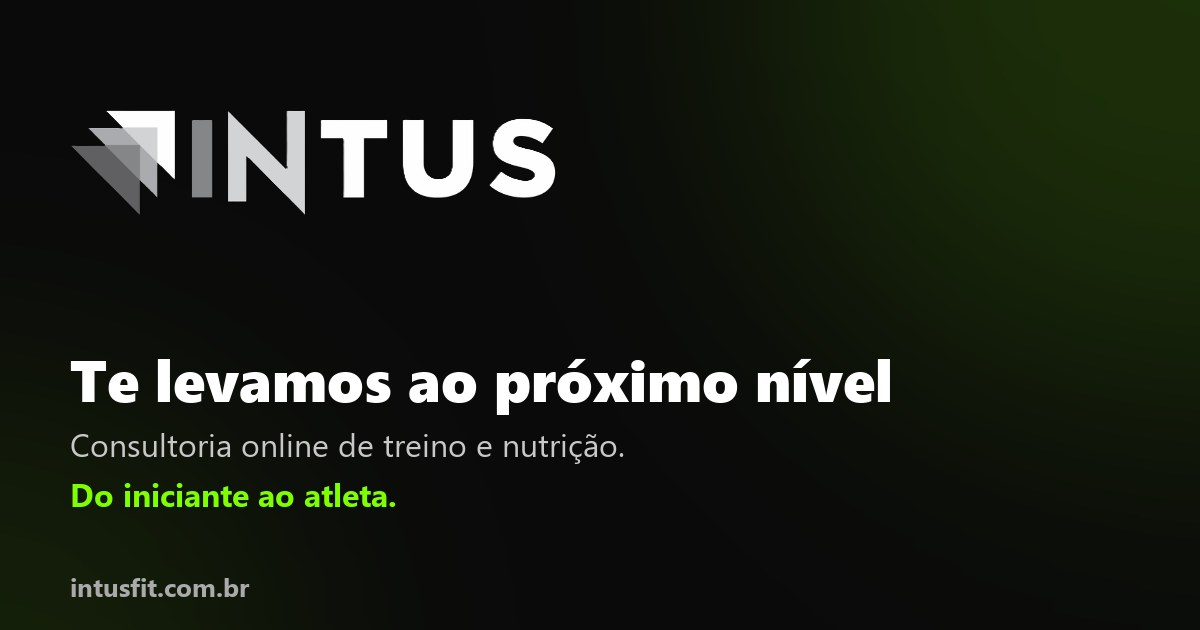
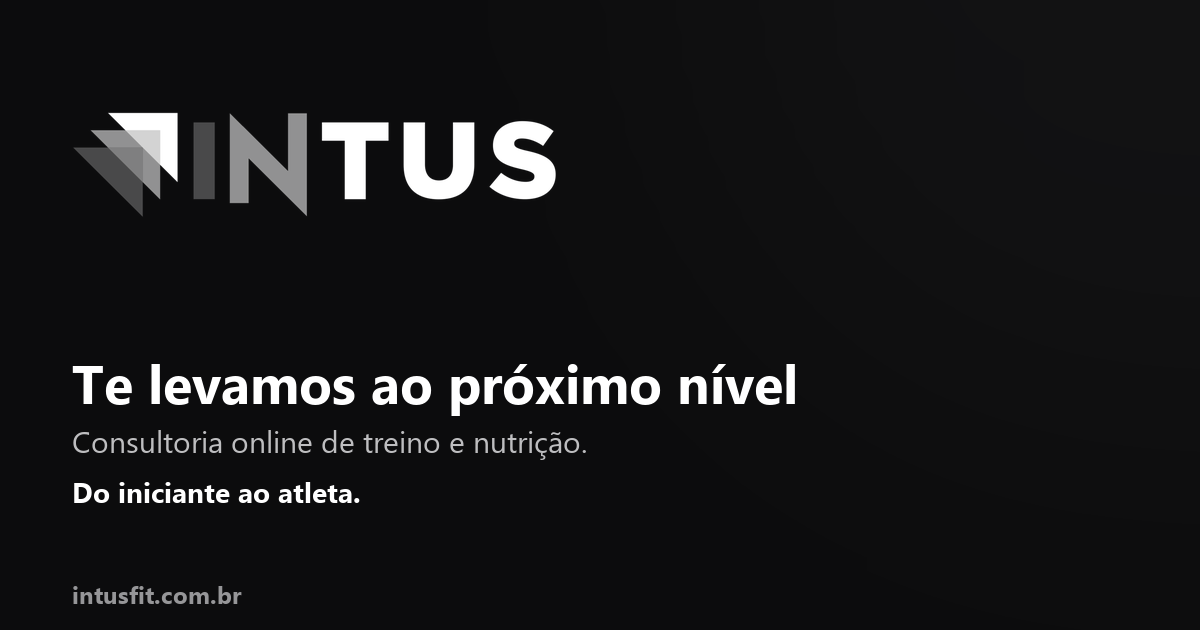
Imagens de compartilhamento e theme_color sem verde (preto, branco e cinza)

diff --git a/teste-gratis.html b/teste-gratis.html
@@ -16,7 +16,7 @@
 <meta property="og:url" content="https://intusfit.com.br/teste-gratis.html">
 <meta property="og:title" content="Teste grátis de 3 dias · Intus Fit">
 <meta property="og:description" content="Treine 3 dias com ficha prescrita e acompanhada por um profissional de verdade. Acesso ao app agora, sem cartão e sem compromisso.">
-<meta property="og:image" content="https://intusfit.com.br/marca/og/teste-gratis.jpg?v=20261030a">
+<meta property="og:image" content="https://intusfit.com.br/marca/og/teste-gratis.jpg?v=20261121a">
 <meta property="og:image:type" content="image/jpeg">
 <meta property="og:image:width" content="1200">
 <meta property="og:image:height" content="630">
@@ -25,7 +25,7 @@
 <meta name="twitter:card" content="summary_large_image">
 <meta name="twitter:title" content="Teste grátis de 3 dias · Intus Fit">
 <meta name="twitter:description" content="Treine 3 dias com ficha prescrita e acompanhada por um profissional de verdade. Sem cartão e sem compromisso.">
-<meta name="twitter:image" content="https://intusfit.com.br/marca/og/teste-gratis.jpg?v=20261030a">
+<meta name="twitter:image" content="https://intusfit.com.br/marca/og/teste-gratis.jpg?v=20261121a">
 <link rel="preconnect" href="https://fonts.googleapis.com">
 <link rel="preconnect" href="https://fonts.gstatic.com" crossorigin>
 <link href="https://fonts.googleapis.com/css2?family=Inter:wght@400;500;600;700;800;900&display=swap" rel="stylesheet">

diff --git a/index.html b/index.html
@@ -24,7 +24,7 @@
 <meta property="og:url" content="https://intusfit.com.br/">
 <meta property="og:title" content="Intus Fit — Te levamos ao próximo nível">
 <meta property="og:description" content="Consultoria online de treino e alimentação. Do iniciante ao atleta. Resultados de 1 ano em 3 meses.">
-<meta property="og:image" content="https://intusfit.com.br/marca/og/site.jpg?v=20261030a">
+<meta property="og:image" content="https://intusfit.com.br/marca/og/site.jpg?v=20261121a">
 <meta property="og:image:width" content="1200">
 <meta property="og:image:height" content="630">
 <meta property="og:image:type" content="image/jpeg">
@@ -33,7 +33,7 @@
 <meta name="twitter:card" content="summary_large_image">
 <meta name="twitter:title" content="Intus Fit — Te levamos ao próximo nível">
 <meta name="twitter:description" content="Consultoria online de treino e alimentação. Do iniciante ao atleta. Resultados de 1 ano em 3 meses.">
-<meta name="twitter:image" content="https://intusfit.com.br/marca/og/site.jpg?v=20261030a">
+<meta name="twitter:image" content="https://intusfit.com.br/marca/og/site.jpg?v=20261121a">
 <link rel="preconnect" href="https://fonts.googleapis.com">
 <link rel="preconnect" href="https://fonts.gstatic.com" crossorigin>
 <link href="https://fonts.googleapis.com/css2?family=Barlow+Condensed:wght@700;800;900&family=Inter:wght@400;500;600;700&display=swap" rel="stylesheet">

diff --git a/consultoria-hipertrofia.html b/consultoria-hipertrofia.html
@@ -11,7 +11,7 @@
 <meta property="og:url" content="https://intusfit.com.br/consultoria-hipertrofia.html">
 <meta property="og:title" content="Consultoria de Hipertrofia e Ganho de Massa Muscular Online | Intus Fit">
 <meta property="og:description" content="Consultoria online de hipertrofia: treino individualizado e plano alimentar para ganhar massa muscular, com acompanhamento de Luiz Nunes e equipe Intus Fit.">
-<meta property="og:image" content="https://intusfit.com.br/marca/og/site.jpg?v=20261030a">
+<meta property="og:image" content="https://intusfit.com.br/marca/og/site.jpg?v=20261121a">
 <meta property="og:locale" content="pt_BR">
 <meta name="theme-color" content="#0A0A0A">
 <link rel="icon" type="image/x-icon" href="/favicon.ico" sizes="any">

diff --git a/consultoria-emagrecimento.html b/consultoria-emagrecimento.html
@@ -11,7 +11,7 @@
 <meta property="og:url" content="https://intusfit.com.br/consultoria-emagrecimento.html">
 <meta property="og:title" content="Consultoria de Emagrecimento e Definição Muscular Online | Intus Fit">
 <meta property="og:description" content="Consultoria online para emagrecer e definir: treino individualizado, cardio e plano alimentar com acompanhamento profissional. Intus Fit, de Luiz Nunes.">
-<meta property="og:image" content="https://intusfit.com.br/marca/og/site.jpg?v=20261030a">
+<meta property="og:image" content="https://intusfit.com.br/marca/og/site.jpg?v=20261121a">
 <meta property="og:locale" content="pt_BR">
 <meta name="theme-color" content="#0A0A0A">
 <link rel="icon" type="image/x-icon" href="/favicon.ico" sizes="any">

diff --git a/consultoria-nutricional-online.html b/consultoria-nutricional-online.html
@@ -11,7 +11,7 @@
 <meta property="og:url" content="https://intusfit.com.br/consultoria-nutricional-online.html">
 <meta property="og:title" content="Consultoria Nutricional Online com Plano Alimentar | Intus Fit">
 <meta property="og:description" content="Consultoria nutricional online integrada ao treino: plano alimentar com substituições, acompanhamento de nutricionista e app com receitas. Intus Fit.">
-<meta property="og:image" content="https://intusfit.com.br/marca/og/site.jpg?v=20261030a">
+<meta property="og:image" content="https://intusfit.com.br/marca/og/site.jpg?v=20261121a">
 <meta property="og:locale" content="pt_BR">
 <meta name="theme-color" content="#0A0A0A">
 <link rel="icon" type="image/x-icon" href="/favicon.ico" sizes="any">

diff --git a/personal-trainer-online.html b/personal-trainer-online.html
@@ -11,7 +11,7 @@
 <meta property="og:url" content="https://intusfit.com.br/personal-trainer-online.html">
 <meta property="og:title" content="Personal Trainer Online | Treino Individualizado a Distância | Intus Fit">
 <meta property="og:description" content="Personal trainer online com treino individualizado, acompanhamento e app. Luiz Nunes e equipe Intus Fit atendem de Cascavel/PR para todo o Brasil.">
-<meta property="og:image" content="https://intusfit.com.br/marca/og/site.jpg?v=20261030a">
+<meta property="og:image" content="https://intusfit.com.br/marca/og/site.jpg?v=20261121a">
 <meta property="og:locale" content="pt_BR">
 <meta name="theme-color" content="#0A0A0A">
 <link rel="icon" type="image/x-icon" href="/favicon.ico" sizes="any">

diff --git a/consultoria-online.html b/consultoria-online.html
@@ -11,7 +11,7 @@
 <meta property="og:url" content="https://intusfit.com.br/consultoria-online.html">
 <meta property="og:title" content="Consultoria Online de Treino e Nutrição | Intus Fit">
 <meta property="og:description" content="Consultoria online de treino e nutrição com acompanhamento individual, do iniciante ao atleta. Conheça como funciona a consultoria da Intus Fit, de Luiz Nunes.">
-<meta property="og:image" content="https://intusfit.com.br/marca/og/site.jpg?v=20261030a">
+<meta property="og:image" content="https://intusfit.com.br/marca/og/site.jpg?v=20261121a">
 <meta property="og:locale" content="pt_BR">
 <meta name="theme-color" content="#0A0A0A">
 <link rel="icon" type="image/x-icon" href="/favicon.ico" sizes="any">

diff --git a/perguntas-frequentes.html b/perguntas-frequentes.html
@@ -11,7 +11,7 @@
 <meta property="og:url" content="https://intusfit.com.br/perguntas-frequentes.html">
 <meta property="og:title" content="Perguntas Frequentes sobre Consultoria Online | Intus Fit">
 <meta property="og:description" content="Respostas sobre a consultoria online de treino e nutrição da Intus Fit: como funciona, para quem é, teste grátis, atendimento e equipe.">
-<meta property="og:image" content="https://intusfit.com.br/marca/og/site.jpg?v=20261030a">
+<meta property="og:image" content="https://intusfit.com.br/marca/og/site.jpg?v=20261121a">
 <meta property="og:locale" content="pt_BR">
 <meta name="theme-color" content="#0A0A0A">
 <link rel="icon" type="image/x-icon" href="/favicon.ico" sizes="any">

diff --git a/luiz-nunes.html b/luiz-nunes.html
@@ -11,7 +11,7 @@
 <meta property="og:url" content="https://intusfit.com.br/luiz-nunes.html">
 <meta property="og:title" content="Luiz Nunes | Personal Trainer e Fundador da Intus Fit">
 <meta property="og:description" content="Luiz Nunes é personal trainer, Bodybuilding Coach e fundador da Intus Fit, consultoria online de treino e nutrição em Cascavel/PR. CREF 025204-G/PR.">
-<meta property="og:image" content="https://intusfit.com.br/marca/og/site.jpg?v=20261030a">
+<meta property="og:image" content="https://intusfit.com.br/marca/og/site.jpg?v=20261121a">
 <meta property="og:locale" content="pt_BR">
 <meta name="theme-color" content="#0A0A0A">
 <link rel="icon" type="image/x-icon" href="/favicon.ico" sizes="any">
